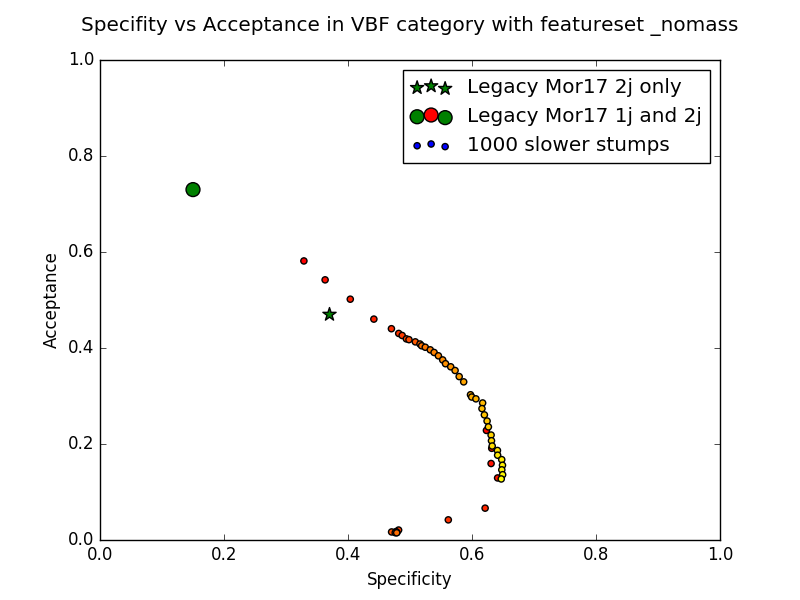
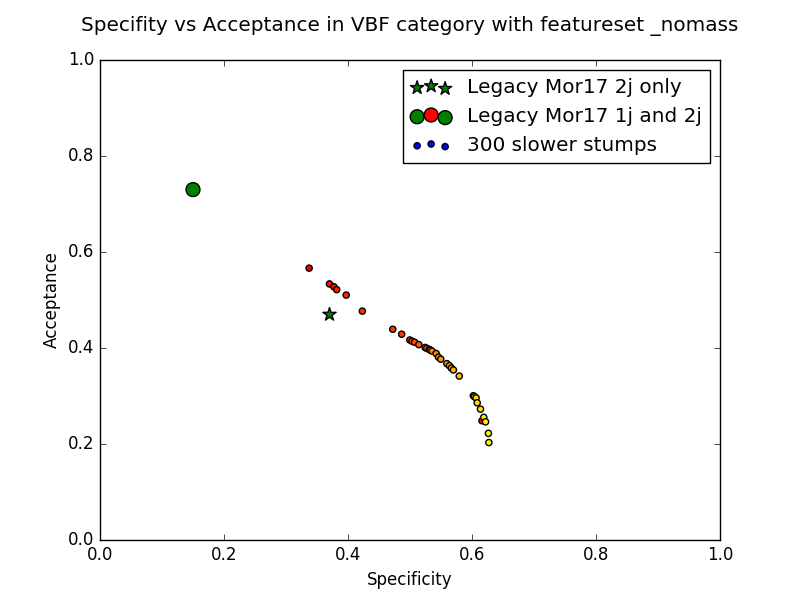
test

diff --git a/core/roc_curve.py b/core/roc_curve.py
@@ -78,11 +78,14 @@ def check_weight_influence():
     specificity = 0.15
     p.scatter(specificity, acceptance, marker='o', c='gr', s=10**2, label='Legacy Mor17 1j and 2j')
 
-    for n_est, symbol in zip([1000], ['o']):
+    for n_est, symbol in zip([300], ['o']):
         plop = [model for model in slow_stumps_dict if (model.split('_')[2] == str(n_est))]
         plop.sort()
         acceptances = np.array([np.loadtxt('saves/metrics/' + name + '_acceptance.txt')[1] for name in plop])
         specificities = np.array([np.loadtxt('saves/metrics/' + name + '_specificity.txt')[1] for name in plop])
+        mask = acceptances > 0.12
+	specificities = specificities[mask]
+        acceptances = acceptances[mask]
         p.scatter(specificities, acceptances, marker=symbol, c=range(len(acceptances)) ,cmap=cm.autumn, label=str(n_est) + ' slower stumps')
 
     p.legend(loc=1)
@@ -115,8 +118,8 @@ def find_best_model():
 
 
 def main():
-    custom_roc()
-    #check_weight_influence()
+    #custom_roc()
+    check_weight_influence()
     #find_best_model()
 
 
